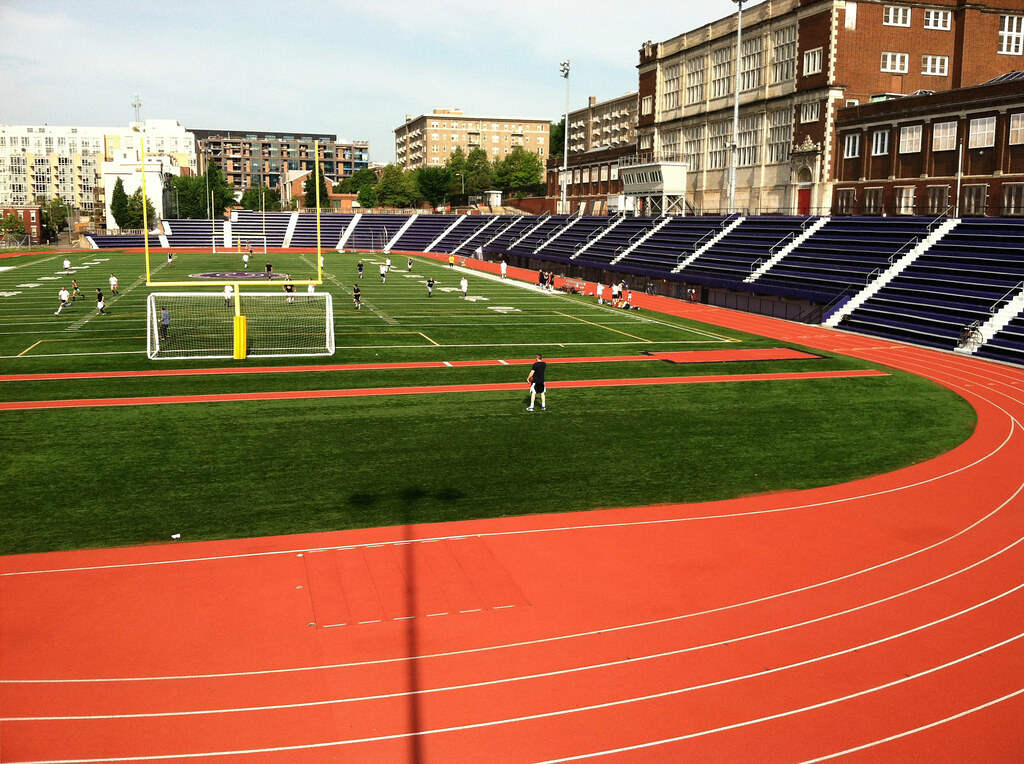
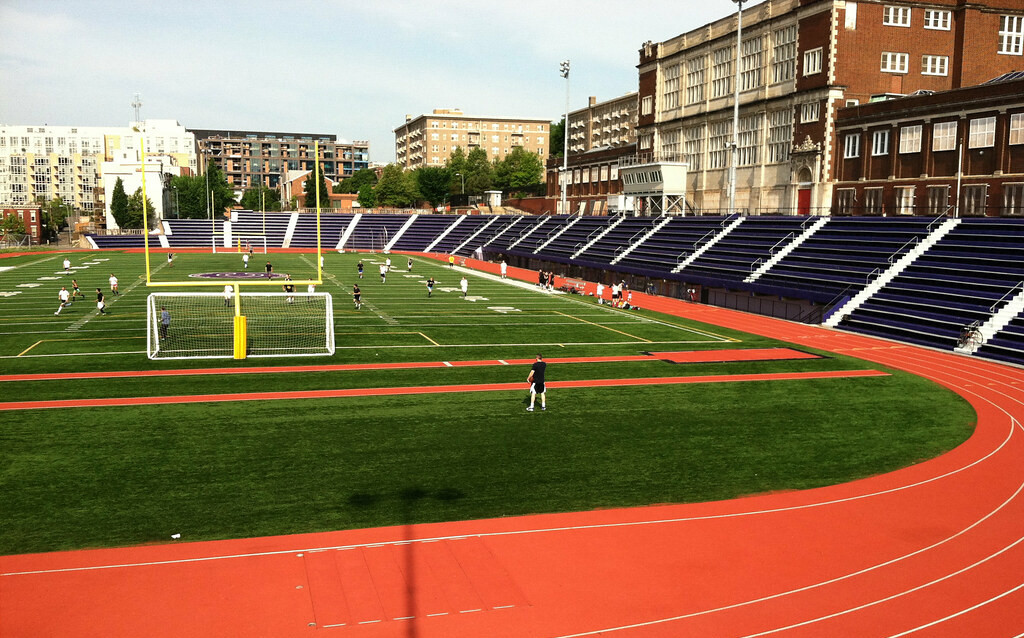
resized images

diff --git a/WorkoutApp/Templates/homepage.html b/WorkoutApp/Templates/homepage.html
@@ -60,15 +60,15 @@
 
         <div class="scrolling-images">
             <div class="images fade">
-                <img src="{% static 'images/Gym-structure.png' %}" style="width:100%">
+                <img src="{% static 'images/Gym-structure.png' %}" style="width:100%; height: 400px">
             </div>
 
             <div class="images fade">
-                <img src="{% static 'images/Track.jpg' %}" style="width:100%">
+                <img src="{% static 'images/Track.jpg' %}" style="width:100%; height: 400px">
             </div>
 
             <div class="images fade">
-                <img src="{% static 'images/pool.jpg' %}" style="width:100%">
+                <img src="{% static 'images/pool.jpg' %}" style="width:100%; height: 400px">
             </div>
 
             <a class="prev" onclick="plusSlides(-1)">&#10094;</a>
